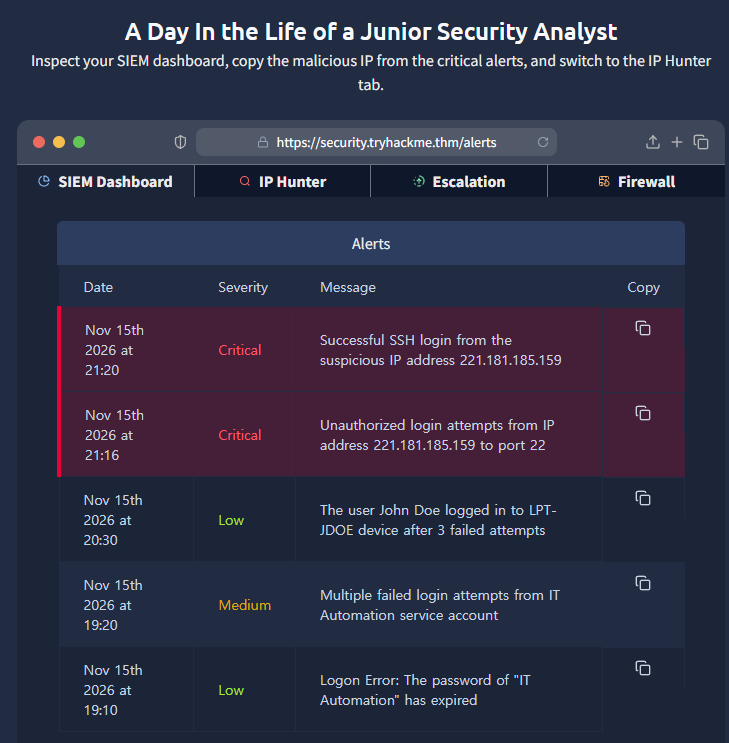
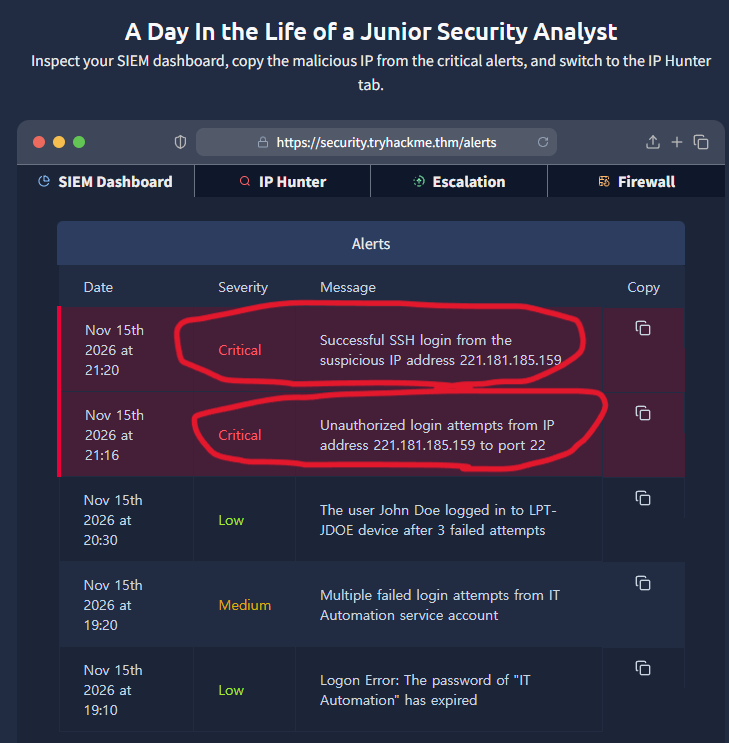
Corrected version

Changed region(s): [[0.2414, 0.4334, 0.845, 0.6191], [0.2414, 0.4024, 0.7846, 0.4953], [0.332, 0.6191, 0.7545, 0.6501]]

diff --git a/README.md b/README.md
@@ -1,16 +1,13 @@
-# Security-Analyst-Intro
-Dashboard, Firewall Block, Escalating.
+1. Practice Details
+Objective: Accurately report incidents to the appropriate person in charge upon occurrence. Review the SIEM Dashboard and detect events corresponding to severity levels.
 
-# TryHackMe - A Day In the Life of a Junior Security Analyst
+Result: Reported the suspicious IP to the manager and blocked the IP in the firewall.
 
-## 1. 실습 개요
-* **주제:** SIEM 대시보드 알람 분석 및 의심스러운 IP 추적
-* **목표:** 크리티컬(Critical) 보안 경고를 식별하고 비정상적인 SSH 로그인 시도 분석
+2. Key Analysis
+Detected Threat: Critical severity alert received on November 15, 2026, at 21:20
 
-## 2. 주요 분석 내용
-* **탐지된 위협:** 2026년 11월 15일 21:20에 수신된 Critical 등급 알람
-* **공격자 IP:** `221.181.185.159` (포트 22를 통한 무차별 대입 및 성공적인 SSH 로그인 시도 탐지)
-* **조치 사항:** IP Hunter 탭을 이용해 해당 악성 IP의 통신 기록 확인 완료
+Attacker IP: 221.181.185.159 (Detected brute-force attack and successful SSH login attempt via port 22)
 
-## 3. 실습 화면 캡처
-![SIEM Dashboard](./siem-alert.png)
+Action Taken: Checked communication logs of the malicious IP using the IP Hunter tab
+
+3. Practice Screenshot
